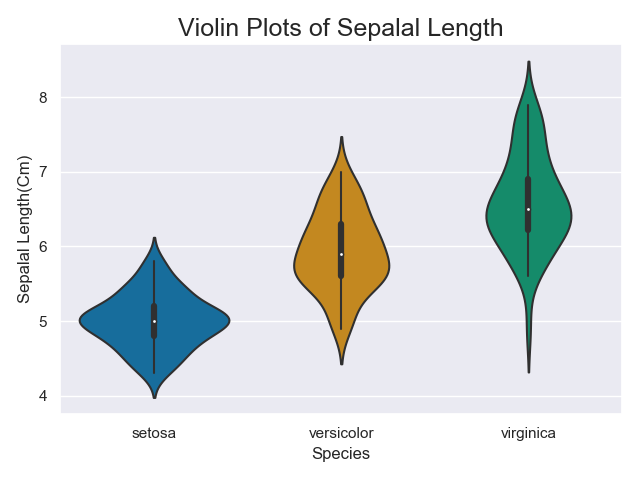
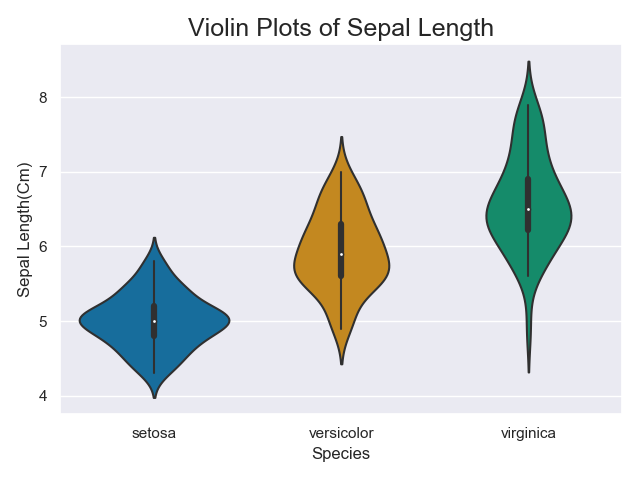
Addition of Density Plots and fixing of errors.

Changed region(s): [[0.2812, 0.0312, 0.7812, 0.0938], [0.0312, 0.3125, 0.0625, 0.625]]

diff --git a/Visualisation.py b/Visualisation.py
@@ -107,6 +107,58 @@ plt.tight_layout()
 plt.savefig("Visualisations/Histrogram Comparing the Frequency of Petal Length of Each of the Species.png")
 plt.show()
 
+#Create a Histogram with the Density Plot Comparing the Sepal Width of Each of the Species
+#Set the parameters for the Sepal Width Histogram with Density Plot
+#Data selected is Sepal Width within the each of the Species Set and a label is added
+sns.distplot(SetosaData.sepal_width, label="Setosa")
+sns.distplot(VersicolorData.sepal_width, label="Versicolor")
+sns.distplot(VirginicaData.sepal_width, label="Virginica")
+#Set the name and size of the X Label
+plt.xlabel("Sepal Width (Cm)", fontsize=12)
+#Add a legend and locate it in the best location
+plt.legend(loc='best')
+#Set the name and size of the Title
+plt.title("Histogram with the Density Plot for Sepal Width of each of the Species", fontsize=14)
+#The tight_layout command is used to fit the Plot within the Figure
+plt.tight_layout()
+#The Figure is Saved as a .png file in the Visualisations folder and a name is given to it
+plt.savefig("Visualisations/Histogram with the Density Plot Comparing the Sepal Width of Each of the Species.png")
+#The Figure is displayed
+plt.show()
+
+#Create a Histogram with the KDE Comparing the Sepal Length of Each of the Species
+sns.distplot(SetosaData.sepal_length, label="Setosa")
+sns.distplot(VersicolorData.sepal_length, label="Versicolor")
+sns.distplot(VirginicaData.sepal_length, label="Virginica")
+plt.xlabel("Sepal Length (Cm)", fontsize=12)
+plt.legend(loc='best')
+plt.title("Histogram with the Density Plot for Sepal Length of each of the Species", fontsize=14)
+plt.tight_layout()
+plt.savefig("Visualisations/Histogram with the Density Plot Comparing the Sepal Length of Each of the Species.png")
+plt.show()
+
+#Create a Histogram with the Density Plot Comparing the Petal Width of Each of the Species
+sns.distplot(SetosaData.petal_width, label="Setosa")
+sns.distplot(VersicolorData.petal_width, label="Versicolor")
+sns.distplot(VirginicaData.petal_width, label="Virginica")
+plt.xlabel("Petal Width (Cm)", fontsize=12)
+plt.legend(loc='best')
+plt.title("Histogram with the Density Plot for Petal Width of each of the Species", fontsize=14)
+plt.tight_layout()
+plt.savefig("Visualisations/Histogram with the Density Plot Comparing the Petal Width of Each of the Species.png")
+plt.show()
+
+#Create a Histogram with the Density Plot Comparing the Petal Length of Each of the Species
+sns.distplot(SetosaData.petal_length, label="Setosa")
+sns.distplot(VersicolorData.petal_length, label="Versicolor")
+sns.distplot(VirginicaData.petal_length, label="Virginica")
+plt.xlabel("Petal Length (Cm)", fontsize=12)
+plt.legend(loc='best')
+plt.title("Histogram with the Density Plot for Petal Length of each of the Species", fontsize=14)
+plt.tight_layout()
+plt.savefig("Visualisations/Histogram with the Density Plot Comparing the Petal Length of Each of the Species.png")
+plt.show()
+
 
 #Create a Boxplot Displaying the Distribution of the Setosa Data
 #Set the parameters for the Boxplot
@@ -219,8 +271,8 @@ plt.show()
 #Create a Violin Plot of Sepalal Length of each of the Species
 sns.violinplot(x="species",y="sepal_length",data=f)
 plt.xlabel("Species", fontsize=12)
-plt.ylabel("Sepalal Length(Cm)", fontsize=12)
-plt.title("Violin Plots of Sepalal Length", fontsize=18)
+plt.ylabel("Sepal Length(Cm)", fontsize=12)
+plt.title("Violin Plots of Sepal Length", fontsize=18)
 plt.tight_layout()
 plt.savefig("Visualisations/Violin Plot of comparing the Sepal Length of each of the Species.png")
 plt.show()
@@ -229,8 +281,8 @@ plt.show()
 #Create a Violin Plot of Sepalal Width of each of the Species
 sns.violinplot(x="species",y="sepal_width",data=f)
 plt.xlabel("Species", fontsize=12)
-plt.ylabel("Sepalal Width(Cm)", fontsize=12)
-plt.title("Violin Plots of Sepalal Width", fontsize=18)
+plt.ylabel("Sepal Width(Cm)", fontsize=12)
+plt.title("Violin Plots of Sepal Width", fontsize=18)
 plt.tight_layout()
 plt.savefig("Visualisations/Violin Plot of comparing the Sepal Width of each of the Species.png")
 plt.show()
@@ -344,57 +396,7 @@ plt.show()
 
 
 
-#Create a Histogram for Sepal Length of each of the Species
-sns.distplot(SetosaData.sepal_length, label="Setosa")
-sns.distplot(VersicolorData.sepal_length, label="Versicolor")
-sns.distplot(VirginicaData.sepal_length, label="Virginica")
-plt.xlabel("Species", fontsize=12)
-plt.ylabel("Sepal Length (Cm)", fontsize=12)
-plt.legend(loc='best')
-title="Histogram for Sepal Length of each of the Species"
-plt.title(title, fontsize=18)
-plt.tight_layout()
-#plt.show()
-#pp.savefig()
 
-#Create a Histogram for Sepal Width of each of the Species
-sns.distplot(SetosaData.sepal_width, label="Setosa")
-sns.distplot(VersicolorData.sepal_width, label="Versicolor")
-sns.distplot(VirginicaData.sepal_width, label="Virginica")
-plt.xlabel("Species", fontsize=12)
-plt.ylabel("Sepal Width (Cm)", fontsize=12)
-plt.legend(loc='best')
-title="Histogram for Sepal Width of each of the Species"
-plt.title(title, fontsize=18)
-plt.tight_layout()
-#plt.show()
-#pp.savefig()
-
-#Create a Histogram for Petal Length of each of the Species
-sns.distplot(SetosaData.petal_length, label="Setosa")
-sns.distplot(VersicolorData.petal_length, label="Versicolor")
-sns.distplot(VirginicaData.petal_length, label="Virginica")
-plt.xlabel("Species", fontsize=12)
-plt.ylabel("Petal Length (Cm)", fontsize=12)
-plt.legend(loc='upper right')
-title="Histogram for Petal Length of each of the Species"
-plt.title(title, fontsize=18)
-plt.tight_layout()
-#plt.show()
-#pp.savefig()
-
-#Create a Histogram for Petal Width of each of the Species
-sns.distplot(SetosaData.petal_width, label="Setosa")
-sns.distplot(VersicolorData.petal_width, label="Versicolor")
-sns.distplot(VirginicaData.petal_width, label="Virginica")
-plt.xlabel("Species", fontsize=12)
-plt.ylabel("Petal Length (Cm)", fontsize=12)
-plt.legend(loc='upper right')
-title="Histogram for Petal Width of each of the Species"
-plt.title(title, fontsize=18)
-plt.tight_layout()
-#plt.show()
-#pp.savefig()
 
 
 

diff --git a/AdvancedUse.py b/AdvancedUse.py
@@ -21,3 +21,70 @@ f = pd.read_csv("IrisData.csv")
 #Create a DataFrame from the Csv file to allow for easier analysis
 df = pd.DataFrame(f)
 
+
+
+
+
+
+import matplotlib.pyplot as plt
+import seaborn as sns
+
+sns.set(style='darkgrid')
+sns.set_palette("colorblind",3)
+
+SetosaData = df[df.species == "setosa"]
+VersicolorData = df[df.species == "versicolor"]
+VirginicaData = df[df.species == "virginica"]
+
+
+#Create a Histogram with the KDE for Sepal Length of each of the Species
+#Set the parameters for the Sepal Length Histogram
+#Data selected is Sepal Width within the each of the Species Set and a label is added
+sns.distplot(SetosaData.sepal_length, label="Setosa")
+sns.distplot(VersicolorData.sepal_length, label="Versicolor")
+sns.distplot(VirginicaData.sepal_length, label="Virginica")
+#Set the name and size of the X Label
+plt.xlabel("Sepal Length (Cm)", fontsize=12)
+#Add a legend and locate it in the best location
+plt.legend(loc='best')
+#Set the name and size of the Title
+plt.title("Histogram with the KDE for Sepal Length of each of the Species", fontsize=16)
+#The tight_layout command is used to fit the Plot within the Figure
+plt.tight_layout()
+#pp.savefig()
+#The Figure is displayed
+plt.show()
+
+
+#Create a Histogram with the KDE for Sepal Width of each of the Species
+sns.distplot(SetosaData.sepal_width, label="Setosa")
+sns.distplot(VersicolorData.sepal_width, label="Versicolor")
+sns.distplot(VirginicaData.sepal_width, label="Virginica")
+plt.xlabel("Sepal Width (Cm)", fontsize=12)
+plt.legend(loc='best')
+plt.title("Histogram with the KDE for Sepal Width of each of the Species", fontsize=16)
+plt.tight_layout()
+#pp.savefig()
+plt.show()
+
+#Create a Histogram with the KDE for Petal Length of each of the Species
+sns.distplot(SetosaData.petal_length, label="Setosa")
+sns.distplot(VersicolorData.petal_length, label="Versicolor")
+sns.distplot(VirginicaData.petal_length, label="Virginica")
+plt.xlabel("Petal Length (Cm)", fontsize=12)
+plt.legend(loc='best')
+plt.title("Histogram with the KDE for Petal Length of each of the Species", fontsize=16)
+plt.tight_layout()
+#pp.savefig()
+plt.show()
+
+#Create a Histogram with the KDE for Petal Width of each of the Species
+sns.distplot(SetosaData.petal_width, label="Setosa")
+sns.distplot(VersicolorData.petal_width, label="Versicolor")
+sns.distplot(VirginicaData.petal_width, label="Virginica")
+plt.xlabel("Petal Length (Cm)", fontsize=12)
+plt.legend(loc='best')
+plt.title("Histogram with the KDE for Petal Width of each of the Species", fontsize=16)
+plt.tight_layout()
+#pp.savefig()
+plt.show()

diff --git a/README.md b/README.md
@@ -488,6 +488,33 @@ The following plots will be produced as a result of the above code:
 ####  Observations 
 As seen from the above Plots there is a concentration and overlap of the species within the Sepal Length (4-8 Cm) and Sepal Width (2-4.5 Cm) Histograms. However in the Petal Length and Width Histograms it can be seen that there is a differentiation between the Setosa species and the Versicolor and Virginica species.The Setosa species in the Petal Length and Width are concentrated is smaller size (Cm) than the other two species. 
 
+### Creation of Histograms complete with Density Plot Comparing the Sepal Length/Width and Petal Length/Width of Each of the Species
+Similiar to the above, the following histograms compare the Sepal Length/Width and Petal Length/Width of each of the Species with the addition of a Density Plot overlaid. 
+
+A Density Plot is a smoothed, continuous version of a histogram estimated from the data. The Density Plot is a variation of a Histogram that uses kernel smoothing to plot values, allowing for smoother distributions by smoothing out the noise.<sup>[9](#myfootnote9)</sup> 
+
+An advantage of Density Plots is that due to thier shape the peaks help display where values are concentrated.Also they're better at determining the distribution shape because they're not affected by the number of bins used (each bar used in a typical histogram).<sup>[10](#myfootnote10)</sup> 
+
+To create a histogram complete with Density Plot comparing the Sepal Length/Width and Petal Length/Width of Each of the Species the following code is executed:
+```
+sns.distplot(SetosaData.sepal_width, label="Setosa")
+sns.distplot(VersicolorData.sepal_width, label="Versicolor")
+sns.distplot(VirginicaData.sepal_width, label="Virginica")
+plt.xlabel("Sepal Width (Cm)", fontsize=12)
+plt.legend(loc='best')
+plt.title("Histogram with the Density Plot for Sepal Width of each of the Species", fontsize=15)
+plt.tight_layout()
+plt.savefig("Visualisations/Histogram with the Density Plot Comparing the Sepal Width of Each of the Species.png")
+plt.show()
+```
+  * Note the above code creates a histogram with a Density Plot comparing the Sepal Width of each of the Species. To create a histogram comparing the  Sepal Length and Petal Length/Width of each of the Species the following changes would have to be made to the code:
+    * **Sepal Length:** Replace sepal_width with sepal_length.
+    * **Petal Width:** Replace sepal_width with petal_width.
+    * **Petal Length:** Replace sepal_width with petal_length.
+
+The following plots will be produced as a result of the above code:
+
+
 ### Creation of Boxplots Displaying the Distribution of the Data of Each of the Species
 A Boxplot (also known as a Box-and-Whisker Plot) displays a summary of a set of data containing the minimum, first quartile, median, third quartile, and maximum. In a box plot, we draw a box from the first quartile to the third quartile. A vertical line goes through the box at the median. The whiskers go from each quartile to the minimum or maximum. Additionally, outliers (if present) are shown by points outside the minimum and maximum lines.<sup>[9](#myfootnote9)</sup> A Boxplot is created for each of the species to display the distribution of data within each of the species and highlight any areas of commonality.
 
@@ -700,7 +727,7 @@ Machine Learning is one area which has seen an explosion in recent years thanks 
 
 <img align="center" width="500" height="500" img src="https://www.houseofbots.com/images/news/3736/cover.png">
 
-Within the Iris Data Set there is the potential to explore the possibilities Machine Learninng can offer. This can be seen in the articles by Felipe Trindade<sup>[22](#myfootnote22)</sup> and Muller and Guido<sup>[23](#myfootnote23)</sup> which were used as inspirations. 
+Within the Iris Data Set there is the potential to explore the possibilities Machine Learninng can offer. This can be seen in the articles by Felipe Trindade<sup>[22](#myfootnote22)</sup> and Muller and Guido<sup>[23](#myfootnote23)</sup> which were used as inspirations for this program. 
 
 #### Importing the Libaries
 As well as the [Pandas](https://pandas.pydata.org/) and [Numpy](https://www.numpy.org/) libaries imported in the [Analysis.py](https://github.com/JPLee01/pandas-project/blob/master/Analysis.py) and [Visualisation.py](https://github.com/JPLee01/pandas-project/blob/master/Visualisation.py) programs the following extra libary is imported to the AdvancedUse.py program:
@@ -712,6 +739,8 @@ from sklearn.neighbors import KNeighborsClassifier
 The process in [Analysis.py](https://github.com/JPLee01/pandas-project/blob/master/Analysis.py) is repeated for this program.
 
 ### Implementation of Machine Learning
+
+
 
 
 ##  References
@@ -732,6 +761,10 @@ The process in [Analysis.py](https://github.com/JPLee01/pandas-project/blob/mast
 <a name="myfootnote7">7</a>: How to redirect the print to a .txt file using the [Sys](https://docs.python.org/3/library/sys.html) module within Python, <https://stackoverflow.com/questions/7152762/how-to-redirect-print-output-to-a-file-using-python>
 
 <a name="myfootnote8">8</a>: Histogram, <https://corporatefinanceinstitute.com/resources/excel/study/histogram/>
+
+<a name="myfootnote9">9</a>: Will Koehrsen - Histograms and Density Plots in Python, <https://towardsdatascience.com/histograms-and-density-plots-in-python-f6bda88f5ac0>
+
+<a name="myfootnote10">10</a>: The Data Visualisation Catalogue - Density Plot, <https://datavizcatalogue.com/methods/density_plot.html>
 
 <a name="myfootnote9">9</a>: Boxplot, <https://www.tutorialspoint.com/matplotlib/matplotlib_box_plot.htm>
 
